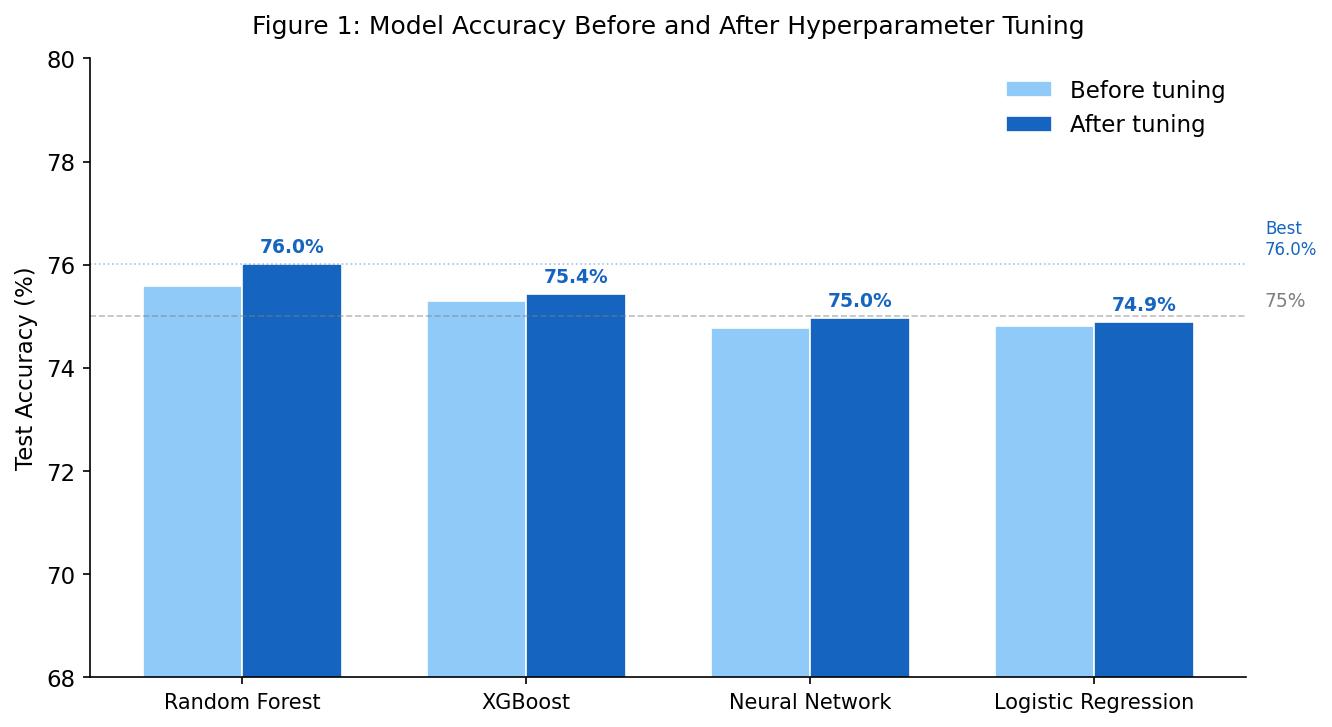
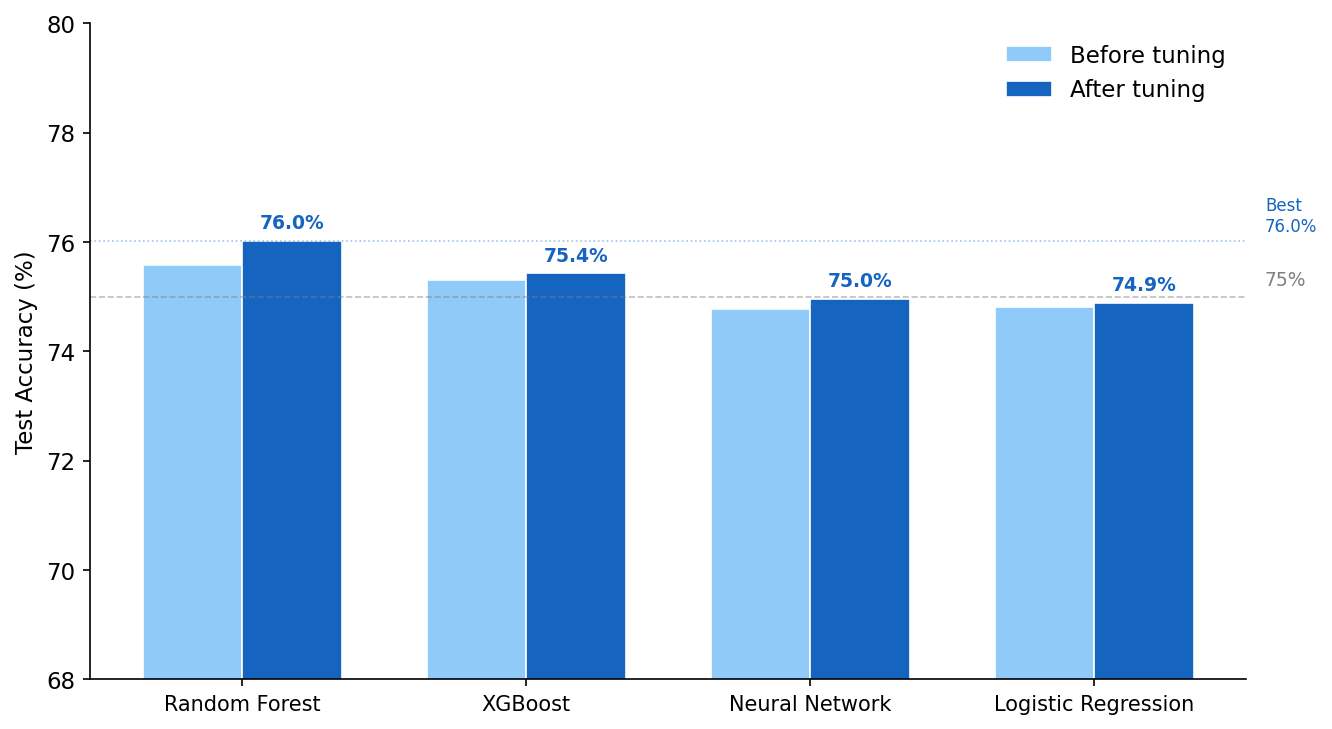
123123123

diff --git a/run_analysis.py b/run_analysis.py
@@ -57,7 +57,6 @@ def run_figures():
     ax.set_xticklabels(models, fontsize=10)
     ax.set_ylabel("Test Accuracy (%)")
     ax.set_ylim(68, 80)
-    ax.set_title("Figure 1: Model Accuracy Before and After Hyperparameter Tuning", fontsize=12, pad=12)
     ax.legend(frameon=False)
     ax.axhline(75, color="gray", linestyle="--", linewidth=0.8, alpha=0.5)
     ax.text(3.6, 75.2, "75%", color="gray", fontsize=9)
@@ -77,7 +76,6 @@ def run_figures():
                  fontsize=10, fontweight="bold", color="#1565C0")
     ax1.set_ylim(63, 87)
     ax1.set_ylabel("Test Accuracy (%)")
-    ax1.set_title("Prediction Accuracy by Round Phase", fontsize=11)
     ax1.fill_between(range(3), [v*100 for v in seg_acc], 63, alpha=0.08, color="#1565C0")
     ax1.axhline(76.02, color="gray", linestyle="--", linewidth=0.8, alpha=0.6)
     ax1.text(2.05, 76.3, "Overall\n76.0%", color="gray", fontsize=8)
@@ -98,11 +96,8 @@ def run_figures():
     ax2.set_xticks(range(3))
     ax2.set_xticklabels(segments)
     ax2.set_ylabel("Feature Importance Share (%)")
-    ax2.set_title("Economic vs Survival Feature Share\nby Round Phase", fontsize=11)
     ax2.set_ylim(0, 110)
     ax2.legend(frameon=False, loc="upper right", fontsize=9)
-    fig.suptitle("Figure 2: Temporal Analysis of Prediction Difficulty and Feature Importance",
-                 fontsize=12, y=1.02)
     plt.tight_layout()
     plt.savefig("figures/fig2_temporal_analysis.png", dpi=150, bbox_inches="tight")
     plt.close()
@@ -119,7 +114,6 @@ def run_figures():
     ax.set_yticklabels(features, fontsize=10)
     ax.invert_yaxis()
     ax.set_xlabel("Mean Decrease in Impurity (Feature Importance)")
-    ax.set_title("Figure 3: Top 10 Feature Importances (Random Forest)", fontsize=12, pad=12)
     ax.set_xlim(0, 0.125)
     legend_patches = [
         mpatches.Patch(color="#2196F3", label="Survival"),
@@ -157,7 +151,6 @@ def run_figures():
     fig, ax = plt.subplots(figsize=(5.5, 4.5))
     disp = ConfusionMatrixDisplay(confusion_matrix=cm, display_labels=le.classes_)
     disp.plot(ax=ax, colorbar=False, cmap="Blues")
-    ax.set_title("Figure 4: Confusion Matrix — Random Forest (Test Set)", fontsize=11, pad=12)
     total = cm.sum()
     for i in range(2):
         for j in range(2):
@@ -168,6 +161,51 @@ def run_figures():
     plt.savefig("figures/fig4_confusion_matrix.png", dpi=150, bbox_inches="tight")
     plt.close()
     print("Saved fig4_confusion_matrix.png")
+
+    # Figure 3 (error analysis): hardcoded from rq3_errors.py run
+    situations   = ["Close\nRounds", "One-Sided\nRounds", "Comeback\nRounds"]
+    sit_acc      = [73.3, 95.7, 27.5]
+    sit_n        = [16655, 6279, 1523]
+    sit_colors   = ["#64B5F6", "#1565C0", "#E53935"]
+    conf_low     = [31, 47, 29]
+    conf_mid     = [38, 12, 42]
+    conf_high    = [31, 41, 29]
+    overall_acc  = 76.2
+
+    fig, (ax1, ax2) = plt.subplots(1, 2, figsize=(12, 5))
+
+    bars = ax1.bar(situations, sit_acc, color=sit_colors, edgecolor="white", linewidth=0.8, width=0.5)
+    for bar, acc, n, col in zip(bars, sit_acc, sit_n, sit_colors):
+        ax1.text(bar.get_x() + bar.get_width()/2, bar.get_height() - 5,
+                 f"{acc:.1f}%", ha="center", va="top", fontsize=12,
+                 fontweight="bold", color="white" if acc > 40 else col)
+        ax1.text(bar.get_x() + bar.get_width()/2, 3,
+                 f"n={n:,}", ha="center", va="bottom", fontsize=9, color="white")
+    ax1.axhline(overall_acc, color="gray", linestyle="--", linewidth=1.2)
+    ax1.text(-0.45, overall_acc + 1.5, f"Overall acc ({overall_acc}%)", color="gray", fontsize=9)
+    ax1.set_ylabel("Accuracy (%)")
+    ax1.set_ylim(0, 110)
+
+    x = np.arange(len(situations))
+    w = 0.5
+    b1 = ax2.bar(x, conf_low,  w, label="Low conf (<0.4)",    color="#F48FB1")
+    b2 = ax2.bar(x, conf_mid,  w, bottom=conf_low,            label="Uncertain (0.4–0.6)", color="#FFF176")
+    b3 = ax2.bar(x, conf_high, w, bottom=[l+m for l, m in zip(conf_low, conf_mid)],
+                 label="High conf (>0.6)", color="#A5D6A7")
+    for i, (lo, mi, hi) in enumerate(zip(conf_low, conf_mid, conf_high)):
+        ax2.text(i, lo/2,        f"{lo}%", ha="center", va="center", fontsize=9, fontweight="bold")
+        ax2.text(i, lo + mi/2,   f"{mi}%", ha="center", va="center", fontsize=9, fontweight="bold")
+        ax2.text(i, lo + mi + hi/2, f"{hi}%", ha="center", va="center", fontsize=9, fontweight="bold")
+    ax2.set_xticks(x)
+    ax2.set_xticklabels(situations)
+    ax2.set_ylabel("Share of Snapshots (%)")
+    ax2.set_ylim(0, 115)
+    ax2.legend(frameon=False, loc="upper right", fontsize=9)
+
+    plt.tight_layout()
+    plt.savefig("figures/fig3_error_analysis.png", dpi=150, bbox_inches="tight")
+    plt.close()
+    print("Saved fig3_error_analysis.png")
 
     print("\nAll figures saved to figures/")
 

diff --git a/report.md b/report.md
@@ -72,6 +72,18 @@ For RQ2, the data was further divided into three temporal segments based on `tim
 
 Each segment was split independently using the same group-based strategy.
 
+#### Feature Category Definitions
+
+To interpret feature importance by phase (RQ2), each feature is assigned to one of three categories based on keyword matching against its column name:
+
+| Category | Keywords matched | Example features |
+|---|---|---|
+| **Economic** | money, helmet, defuse, weapon, grenade, score | ct_money, t_helmets, ct_defuse_kits, ct_weapon_ak47, t_grenade_flashbang, ct_score |
+| **Survival** | health, armor, players_alive, bomb_planted, time_left | ct_health, t_armor, ct_players_alive, bomb_planted, time_left |
+| **Other** | (none of the above) | map |
+
+Category importance is computed as the sum of Random Forest feature importances for all features in that category, then normalised to sum to 100% within each segment.
+
 ### 3.3 Round Situation Classification
 
 To investigate where model errors concentrate, we classify each test-set snapshot into one of three mutually exclusive situation types based on three difference variables:
